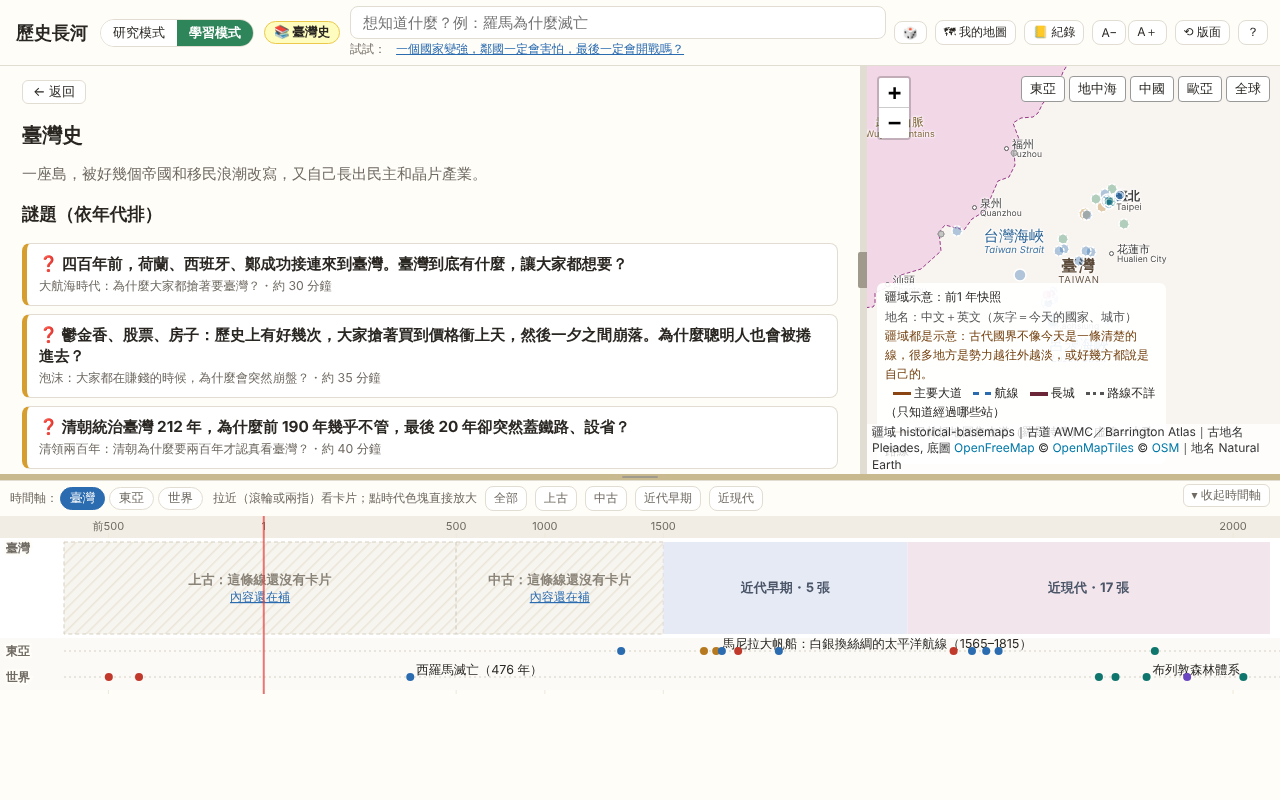
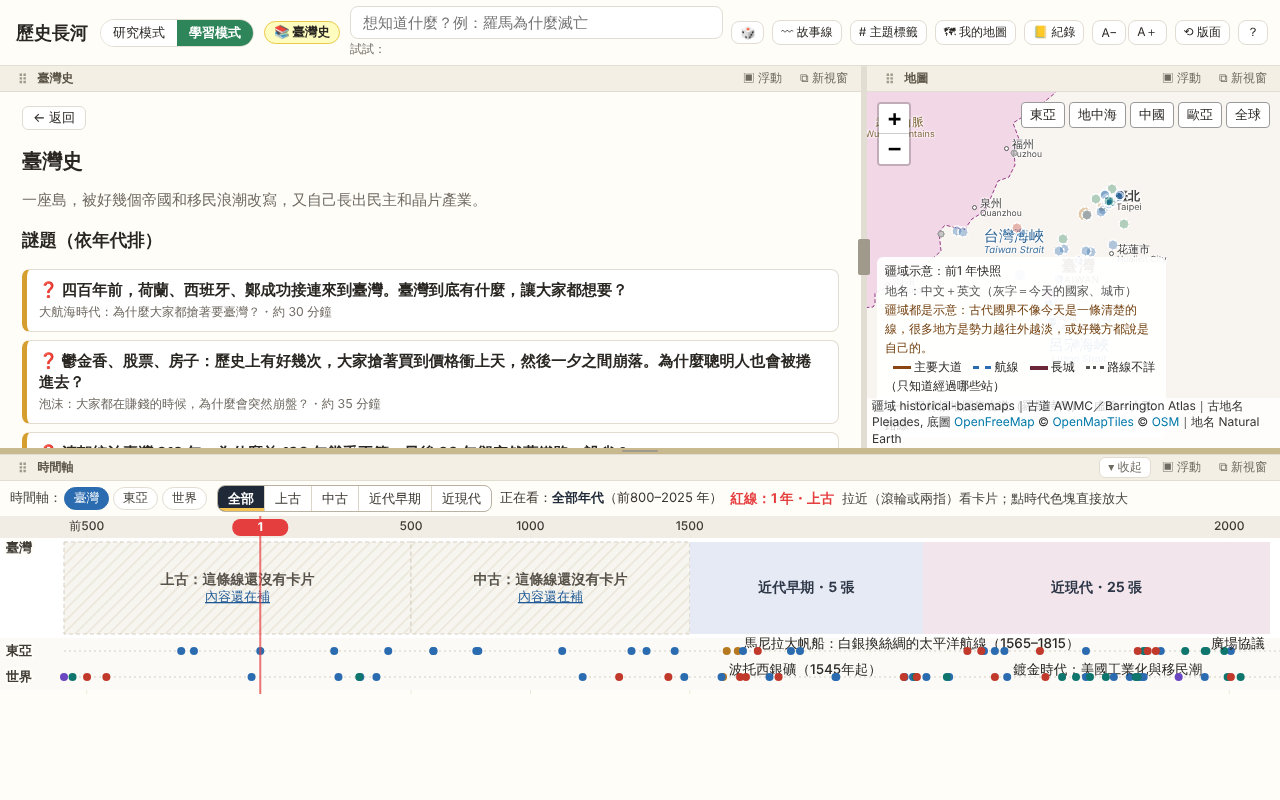
時間軸文字加深放大：刻度、事件名稱、軌道與時代標籤達 WCAG 4.5:1，12px→13px
Claude-Session: https://claude.ai/code/session_01JFJ5rb2H2KEhJXPbq7tzN6

diff --git a/src/styles.css b/src/styles.css
@@ -51,35 +51,35 @@ a { color: var(--accent); }
 
 /* 時間軸 */
 .timeline { padding: 4px 0 6px; user-select: none; }
-.tl-head { display: flex; gap: 6px 12px; align-items: center; font-size: 12px; color: var(--muted); padding: 0 10px 4px; flex-wrap: wrap; }
-.tl-hint { font-size: 11.5px; }
+.tl-head { display: flex; gap: 6px 12px; align-items: center; font-size: 13px; color: #4a4741; padding: 0 10px 4px; flex-wrap: wrap; }
+.tl-hint { font-size: 12.5px; }
 /* 時代切換列：一組相連的按鈕，目前看的時代填滿顏色＋粗體＋底線，不只靠顏色分辨 */
 .era-bar { display: inline-flex; align-items: center; gap: 8px; flex-wrap: wrap; }
 .era-seg { display: inline-flex; border: 1px solid #b9b2a3; border-radius: 8px; overflow: hidden; background: #fff; }
-.era-seg button { border: 0; border-left: 1px solid #ddd6c8; background: transparent; padding: 4px 10px; font-size: 12.5px; white-space: nowrap; color: #4a4741; line-height: 1.3; }
+.era-seg button { border: 0; border-left: 1px solid #ddd6c8; background: transparent; padding: 4px 10px; font-size: 13px; white-space: nowrap; color: #3a362f; font-weight: 500; line-height: 1.3; }
 .era-seg button:first-child { border-left: 0; }
 .era-seg button:hover { background: #f3efe6; }
 .era-seg button:focus-visible { outline: 2px solid #2b6cb0; outline-offset: -2px; }
 .era-seg button.on { background: #1f2937; color: #fff; font-weight: 700; box-shadow: inset 0 -3px 0 #f6c453; }
-.era-range { font-size: 12px; color: #4a4741; white-space: nowrap; }
+.era-range { font-size: 13px; color: #3a362f; white-space: nowrap; }
 .era-range b { color: #1f2937; }
 .era-range.custom b { color: #b7791f; }
 .tl-year { color: var(--red); font-weight: 700; font-size: 13px; }
 .timeline svg { display: block; touch-action: none; }
 .axis-bg { fill: #f1ede4; cursor: pointer; }
-.axis text { font-size: 11px; fill: var(--muted); pointer-events: none; }
+.axis text { font-size: 12px; fill: #3f3b35; font-weight: 500; pointer-events: none; }
 .tick { stroke: #e9e4d9; } .tick.major { stroke: #d8d1c2; }
 .lane-west { fill: transparent; } .lane-china { fill: #faf3ea; }
-.lane-label { font-size: 11px; fill: #8a8378; paint-order: stroke; stroke: #fffdf8; stroke-width: 4px; pointer-events: none; }
+.lane-label { font-size: 12px; fill: #3f3b35; font-weight: 600; paint-order: stroke; stroke: #fffdf8; stroke-width: 4px; pointer-events: none; }
 .node { cursor: pointer; }
-.node text { font-size: 12px; fill: var(--ink); }
+.node text { font-size: 13px; fill: var(--ink); font-weight: 500; }
 .node:hover text, .node.sel text { font-weight: 700; }
 .node.sel rect { stroke: #111; stroke-width: 2; }
 .cursor { cursor: ew-resize; }
 .cursor line { stroke: var(--red); stroke-width: 2; }
 .cursor-hit { fill: transparent; }
 .cursor-badge { fill: var(--red); }
-.cursor text, .cursor-tag text { fill: #fff; font-size: 11px; font-weight: 700; pointer-events: none; }
+.cursor text, .cursor-tag text { fill: #fff; font-size: 12px; font-weight: 700; pointer-events: none; }
 .cursor-tag { cursor: ew-resize; } .cursor-tag.off { cursor: pointer; } .cursor-tag.off .cursor-badge { fill: #b83232; stroke: #fff; stroke-width: 1.5; }
 
 /* 結果清單 */
@@ -183,7 +183,7 @@ a { color: var(--accent); }
 /* 第 2 期：中西對照 */
 .timeline .node.rel rect { stroke: #e53e3e; stroke-width: 2; opacity: 1; }
 .timeline .node.rel text { font-weight: 700; }
-.timeline .node.dim { opacity: 0.35; }
+.timeline .node.dim { opacity: 0.5; }
 .timeline .cp-link { stroke: #e53e3e; stroke-width: 1.5; stroke-dasharray: 4 3; pointer-events: none; }
 .counterparts .cp-item { border-left: 3px solid var(--line); padding-left: 8px; margin: 6px 0; }
 .map-views { position: absolute; top: 10px; right: 10px; z-index: 500; display: flex; gap: 4px; }
@@ -197,10 +197,10 @@ a { color: var(--accent); }
 .chip.on { background: var(--accent); color: #fff; border-color: var(--accent); }
 .lane-econ { fill: #fbfaf6; stroke: var(--line); }
 .econ-grid { stroke: var(--line); stroke-dasharray: 2 3; }
-.econ-tick { font-size: 10px; fill: var(--muted); }
+.econ-tick { font-size: 11px; fill: #4a4741; }
 .epoint { cursor: pointer; }
 .epoint:hover circle, .epoint:hover line, .epoint:hover rect { filter: brightness(1.2); stroke-width: 6; }
-.econ-legend { display: flex; flex-wrap: wrap; gap: 4px 12px; font-size: 12px; padding: 4px 10px 6px; }
+.econ-legend { display: flex; flex-wrap: wrap; gap: 4px 12px; font-size: 13px; color: #3a362f; padding: 4px 10px 6px; }
 .econ-legend i { display: inline-block; width: 10px; height: 10px; border-radius: 50%; margin-right: 4px; vertical-align: -1px; }
 .econ-hit { border: 1px solid var(--accent); border-radius: 8px; padding: 8px 10px; background: #fff; margin: 8px 0; display: grid; gap: 4px; }
 .econ-table { width: 100%; border-collapse: collapse; font-size: 12.5px; }

diff --git a/src/learn/learn.css b/src/learn/learn.css
@@ -159,20 +159,20 @@
 
 /* 三軌時間軸 */
 .ltimeline { padding: 4px 0 6px; user-select: none; }
-.ltimeline .tl-head { display: flex; gap: 8px; align-items: center; font-size: 12px; color: var(--muted); padding: 0 10px 4px; flex-wrap: wrap; }
+.ltimeline .tl-head { display: flex; gap: 8px; align-items: center; font-size: 13px; color: #4a4741; padding: 0 10px 4px; flex-wrap: wrap; }
 .ltimeline svg { display: block; touch-action: none; }
-.ltimeline .tk { font-size: 11px; fill: var(--muted); pointer-events: none; }
+.ltimeline .tk { font-size: 12px; fill: #3f3b35; font-weight: 500; pointer-events: none; }
 .ltimeline .tick { stroke: #eee8db; }
 .bg-lane-bg { fill: #fbfaf7; cursor: pointer; } .bg-lane line { stroke: #d6cfc0; stroke-dasharray: 2 3; }
-.bg-label { font-size: 11px; fill: #8a8378; }
-.lane-name { font-size: 12px; fill: #6f6a62; font-weight: 700; paint-order: stroke; stroke: #fffdf8; stroke-width: 4px; pointer-events: none; }
+.bg-label { font-size: 12px; fill: #3f3b35; font-weight: 500; }
+.lane-name { font-size: 13px; fill: #3f3b35; font-weight: 700; paint-order: stroke; stroke: #fffdf8; stroke-width: 4px; pointer-events: none; }
 .main-lane-bg { fill: #fff; }
 .era { cursor: zoom-in; } .era.empty { cursor: pointer; } .era.empty.none { cursor: default; }
-.era-t.muted-t { fill: #8a8378; font-weight: 600; } .era-alt { font-size: 12px; fill: #2b6cb0; text-decoration: underline; pointer-events: none; }
-.era.empty:not(.none):hover rect { stroke: #2b6cb0; } .era-t { font-size: 13px; fill: #4a5568; font-weight: 700; pointer-events: none; }
-.lnode { cursor: pointer; } .lnode text { font-size: 12.5px; fill: var(--ink); }
+.era-t.muted-t { fill: #57524a; font-weight: 600; } .era-alt { font-size: 13px; fill: #1f5a96; text-decoration: underline; pointer-events: none; }
+.era.empty:not(.none):hover rect { stroke: #2b6cb0; } .era-t { font-size: 14px; fill: #2d3748; font-weight: 700; pointer-events: none; }
+.lnode { cursor: pointer; } .lnode text { font-size: 13.5px; fill: var(--ink); font-weight: 500; }
 .lnode.sel rect { stroke: #111; stroke-width: 2; } .lnode:hover text { font-weight: 700; }
-.cluster { cursor: zoom-in; } .cluster rect { fill: #4a5568; } .cluster text { fill: #fff; font-size: 11px; font-weight: 700; pointer-events: none; }
+.cluster { cursor: zoom-in; } .cluster rect { fill: #4a5568; } .cluster text { fill: #fff; font-size: 12px; font-weight: 700; pointer-events: none; }
 .lcursor { stroke: var(--red); stroke-width: 2; pointer-events: none; opacity: .7; }
 
 /* 手機：一次只顯示一塊，底部分頁 */
@@ -240,9 +240,13 @@
 .method-box { margin: 12px 0 18px; padding: 8px 12px; border: 1px solid var(--line); border-radius: 8px; background: var(--bg); }
 .method-box summary { cursor: pointer; font-weight: 600; }
 /* 時間軸：橫條內的名稱、紅線年份標籤 */
-.lnode text.in { fill: #fff; font-weight: 600; pointer-events: none; }
-.lcursor-tag rect { fill: var(--red); } .lcursor-tag text { fill: #fff; font-size: 11px; font-weight: 700; pointer-events: none; }
+.lnode text.in { fill: #fff; font-weight: 600; font-size: 12.5px; pointer-events: none; }
+.lcursor-tag rect { fill: var(--red); } .lcursor-tag text { fill: #fff; font-size: 12px; font-weight: 700; pointer-events: none; }
 .lcursor-tag { pointer-events: none; } .lcursor-tag.off { pointer-events: auto; cursor: pointer; } .lcursor-tag.off rect { fill: #b83232; stroke: #fff; stroke-width: 1.5; }
-.ltimeline .tl-year { color: var(--red); font-weight: 700; font-size: 12.5px; white-space: nowrap; }
+.ltimeline .tl-year { color: var(--red); font-weight: 700; font-size: 13.5px; white-space: nowrap; }
 .learn.mobile .era-seg button { padding: 5px 8px; }
 .learn.mobile .era-range { white-space: normal; }
+
+/* 時間軸文字加深（2026-11-03）：說明字也要看得清楚 */
+.ltimeline .tl-head .muted, .timeline .tl-head .muted, .econ-legend .muted { color: #4a4741; }
+.ltimeline .tl-head .small { font-size: 13px; }

diff --git a/src/learn/LearnTimeline.tsx b/src/learn/LearnTimeline.tsx
@@ -11,7 +11,7 @@ import { EraBar } from '../components/EraBar';
 
 type Lane = LearnTrack | '專題';
 const ERAS: [string, number, number, string][] = ERA_LIST.map((e) => [e.name, e.a, e.b, e.color]);
-const AXIS_H = 22, ROW_H = 22, BG_H = 26, MAX_ROWS = 3, CH_W = 13, LEFT = 64;
+const AXIS_H = 22, ROW_H = 22, BG_H = 26, MAX_ROWS = 3, CH_W = 14, LEFT = 64;
 
 interface Props {
   cards: Card[]; history: History | null; year: number; setYear: (y: number) => void;
@@ -124,7 +124,7 @@ export function LearnTimeline({ cards, history, year, setYear, selectedId, onOpe
   const viewA = Math.round(base.invert(t.invertX(0))), viewB = Math.round(base.invert(t.invertX(width - LEFT - 10)));
   const cx = x(year);
   const curOff = cx < LEFT ? 'left' : cx > width - 2 ? 'right' : null;
-  const badgeX = Math.max(LEFT + 26, Math.min(width - 28, cx));
+  const badgeX = Math.max(LEFT + 28, Math.min(width - 30, cx));
 
   return (
     <div className="ltimeline" ref={wrap}>
@@ -140,9 +140,9 @@ export function LearnTimeline({ cards, history, year, setYear, selectedId, onOpe
           const r = svgRef.current!.getBoundingClientRect(); const y = Math.round(base.invert(t.invertX(e.clientX - r.left - LEFT)));
           setYear(Math.max(MIN_YEAR, Math.min(MAX_YEAR, y || 1)));
         }} />
-        {ticks.map((y) => { const px = x(y); if (px < LEFT || px + fmtYear(y).length * 4 + 2 > width || px - lastTick < 44) return null; lastTick = px;
+        {ticks.map((y) => { const px = x(y); if (px < LEFT || px + fmtYear(y).length * 4.5 + 2 > width || px - lastTick < 48) return null; lastTick = px;
           // 紅線年份標籤正下方的刻度字不畫，避免兩個數字疊在一起
-          const hide = Math.abs(px - badgeX) < 26 + fmtYear(y).length * 3.5 + 2;
+          const hide = Math.abs(px - badgeX) < 28 + fmtYear(y).length * 4 + 2;
           return <g key={y}><line x1={px} x2={px} y1={AXIS_H - 5} y2={height} className="tick" />{!hide && <text x={px} y={14} textAnchor="middle" className="tk">{fmtYear(y)}</text>}</g>; })}
         {lanes.map((l) => {
           const top = tops[l];
@@ -211,7 +211,7 @@ export function LearnTimeline({ cards, history, year, setYear, selectedId, onOpe
         <g className={`lcursor-tag ${curOff ? 'off' : ''}`} transform={`translate(${badgeX},0)`}
           onClick={curOff ? () => zoomTo(Math.max(MIN_YEAR, year - 50), Math.min(MAX_YEAR, year + 50)) : undefined}>
           <title>{curOff ? '紅線（地圖年代）不在畫面上，點一下移過去' : '紅線＝地圖顯示的年代；點刻度列可以換年代'}</title>
-          <rect x={-26} y={3} width={52} height={16} rx={8} />
+          <rect x={-28} y={3} width={56} height={17} rx={8} />
           <text y={15} textAnchor="middle">{curOff === 'left' ? '◀ ' : ''}{fmtYear(year)}{curOff === 'right' ? ' ▶' : ''}</text>
         </g>
       </svg>

diff --git a/src/components/Timeline.tsx b/src/components/Timeline.tsx
@@ -9,7 +9,7 @@ import { makeBaseScale, BREAKS, MIN_YEAR, MAX_YEAR, eraOf } from '../lib/timeSca
 import { fmtYear, TYPE_COLOR } from '../lib/format';
 import { EraBar } from './EraBar';
 
-const AXIS_H = 26, ROW_H = 20, LANE_PAD = 6, LABEL_PX = 12.5;
+const AXIS_H = 26, ROW_H = 20, LANE_PAD = 6, LABEL_PX = 13.5;
 
 interface Props {
   cards: Card[]; allCards: Card[]; year: number; setYear: (y: number) => void;
@@ -199,7 +199,7 @@ export function Timeline({ cards, allCards, year, setYear, selectedId, onOpen, e
             return (
               <g key={y} transform={`translate(${px},0)`}>
                 <line y1={AXIS_H - (major ? 8 : 4)} y2={height} className={major ? 'tick major' : 'tick'} />
-                {(major || step <= 25) && px - lastLabel >= 46 && ((lastLabel = px), true) && <text y={13} textAnchor="middle">{fmtYear(y)}</text>}
+                {(major || step <= 25) && px - lastLabel >= 50 && ((lastLabel = px), true) && <text y={13} textAnchor="middle">{fmtYear(y)}</text>}
               </g>
             );
           }); })()}
@@ -270,7 +270,7 @@ export function Timeline({ cards, allCards, year, setYear, selectedId, onOpen, e
         <g className={`cursor-tag ${curOff ? 'off' : ''}`} transform={`translate(${badgeX},0)`}
           onPointerDown={curOff ? undefined : startDrag} onClick={curOff ? () => { const a = Math.max(MIN_YEAR, year - 50), b = Math.min(MAX_YEAR, year + 50); (svgRef.current as any)?.__zoom_to?.(a, b); setEraSel(null); } : undefined}>
           {curOff && <title>目前年代不在畫面上，點一下移過去</title>}
-          <rect x={-28} y={AXIS_H - 2} width={56} height={16} rx={8} className="cursor-badge" />
+          <rect x={-30} y={AXIS_H - 2} width={60} height={17} rx={8} className="cursor-badge" />
           <text y={AXIS_H + 10} textAnchor="middle">{curOff === 'left' ? '◀ ' : ''}{fmtYear(shownYear)}{curOff === 'right' ? ' ▶' : ''}</text>
         </g>
       </svg>

diff --git a/docs/timeline-contrast.md b/docs/timeline-contrast.md
@@ -1,0 +1,28 @@
+# 時間軸文字加深（2026-11-03）
+
+ZL 回饋：時間軸字太淺，操作時看不清楚。要求：字放大 12px → 13px，年代數字、事件名稱、時代標籤全部加深。
+
+## 改了什麼
+
+| 文字 | 原本 | 現在 | 對比度（在刻度列底色 #f1ede4） |
+|---|---|---|---|
+| 年代刻度數字 | 11px、#6f6a62 | 12px、#3f3b35、字重 500 | 4.6 → 9.5 |
+| 事件名稱（研究） | 12px | 13px、字重 500 | 近黑，>12 |
+| 事件名稱（學習） | 12.5px | 13.5px、字重 500（色塊內白字 12.5px） | 近黑 |
+| 軌道名稱（中國與東亞、西方…） | 11px、#8a8378 | 12px、#3f3b35 | 3.2 → 9.5 |
+| 背景軌大事（學習） | 11px、#8a8378 | 12px、#3f3b35 | 3.6 → 10.7 |
+| 時代色塊字（學習總覽） | 13px、#4a5568 | 14px、#2d3748 | 6.1 → 9.7 |
+| 「還沒有卡片」說明 | #8a8378 | #57524a | 3.0 → 6.2 |
+| 時代切換列、正在看、說明列 | 12–12.5px | 13px、#3a362f／#4a4741 | ≥7.4 |
+| 研究模式「淡化」的卡 | 透明度 0.35 | 0.5 | 仍比焦點淡，但讀得到 |
+
+所有文字都達 WCAG AA（一般文字 4.5:1）。全域 `--muted` 沒動，只在時間軸範圍內覆寫。
+
+## 版面配合
+- 字寬估算：研究 `LABEL_PX` 12.5→13.5、學習 `CH_W` 13→14，標籤放不下時照舊自動截短或併入「+N」。
+- 刻度數字最小間距 46→50（研究）、44→48（學習）；紅線年份膠囊加寬。
+
+## 檢查
+- scripts/qa/overlap.cjs：1280、390 都「全部沒有重疊」。
+- era.cjs、research.cjs、layout.cjs 通過。labels.cjs 的「地圖提示框中英並列」改之前就沒過，與本次無關。
+- 前後對照：docs/screenshots/timeline-contrast/
